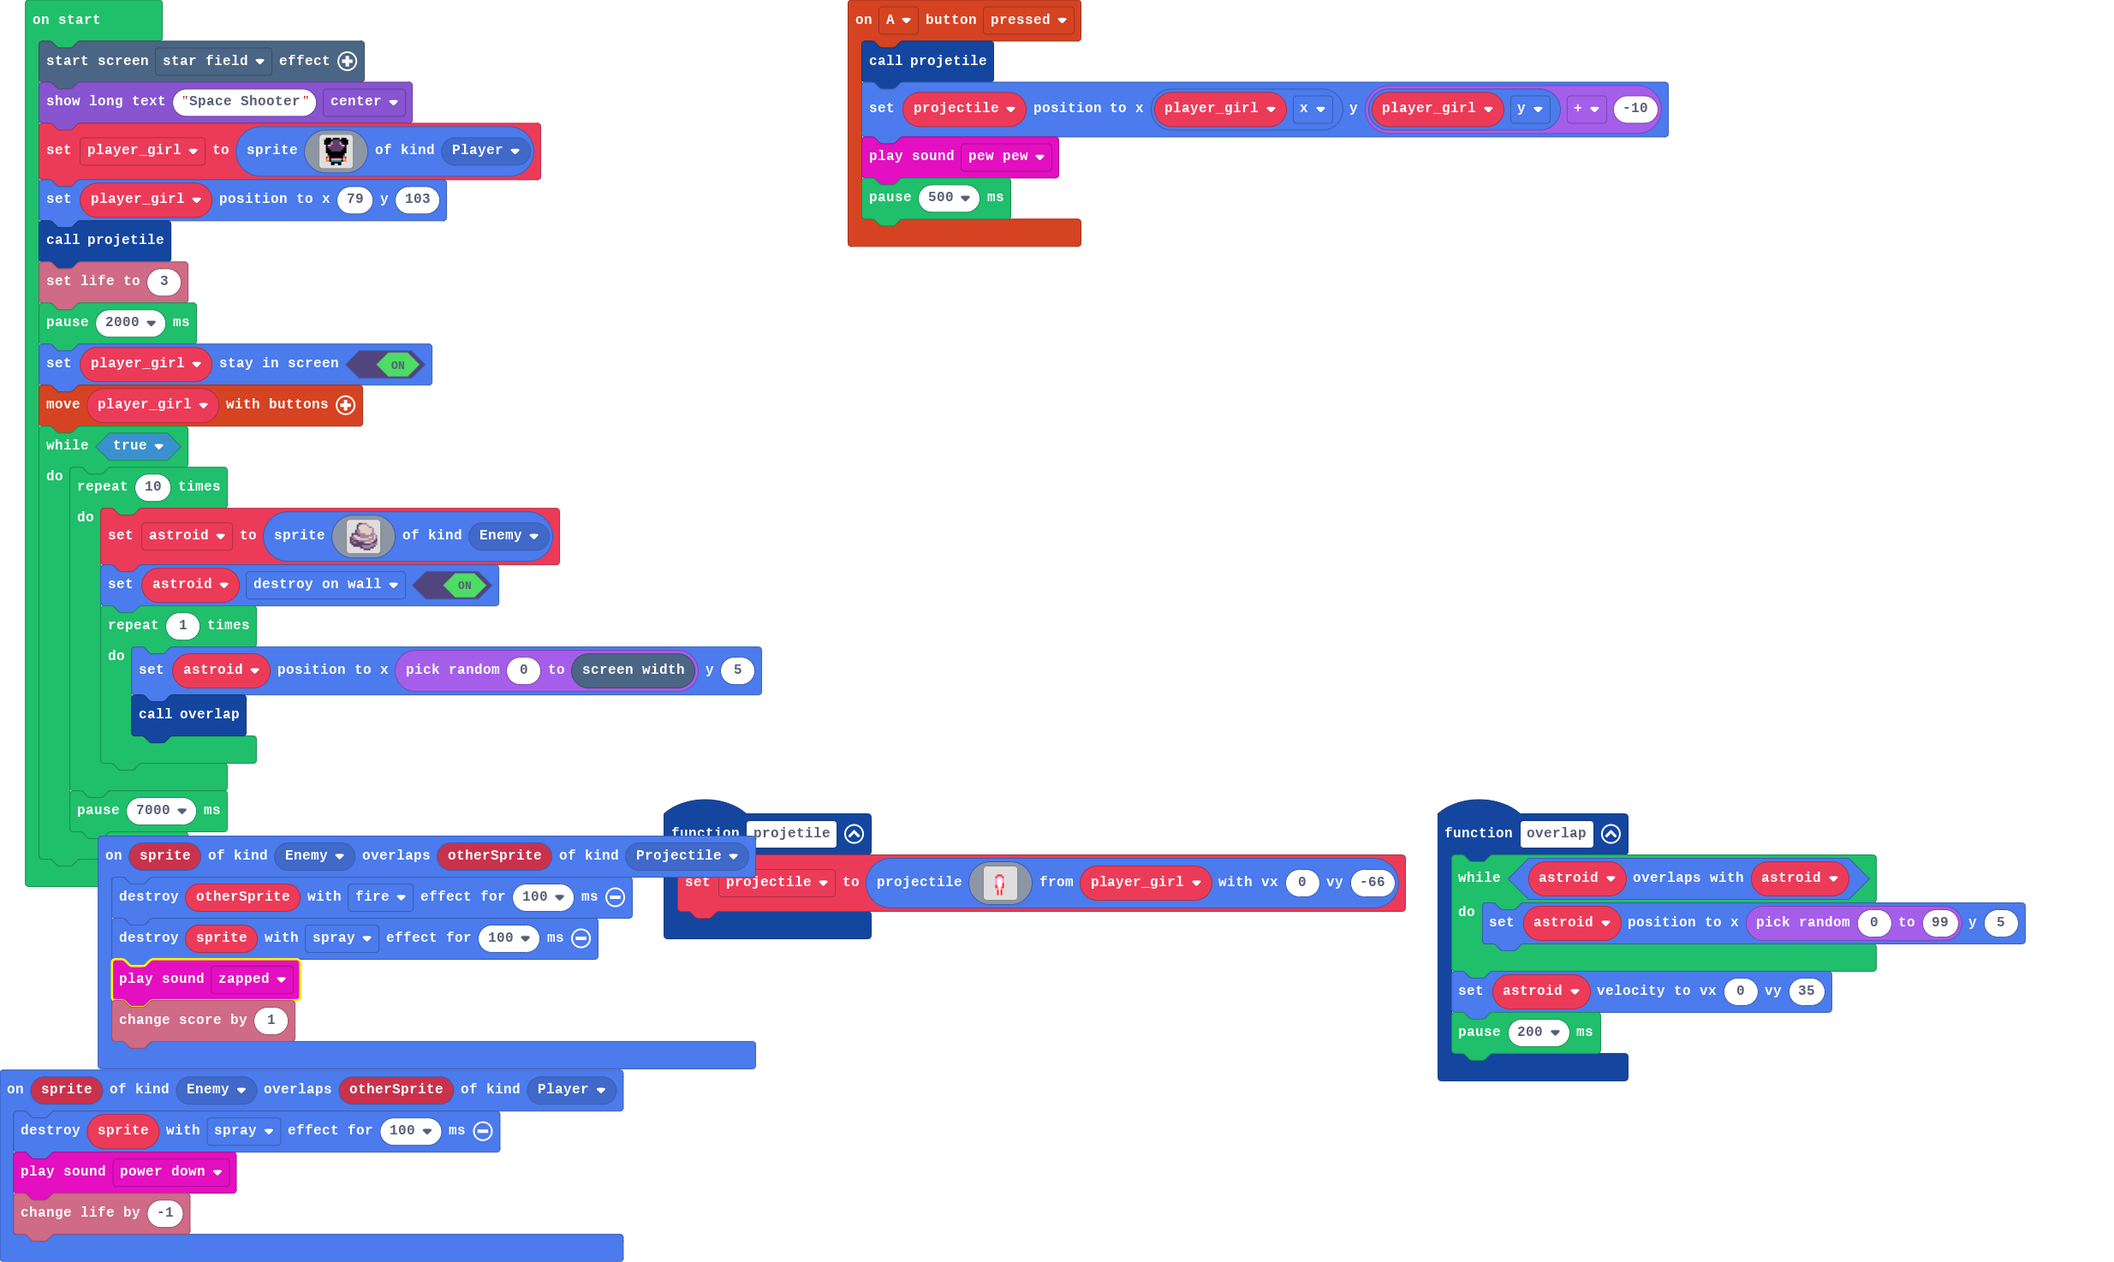
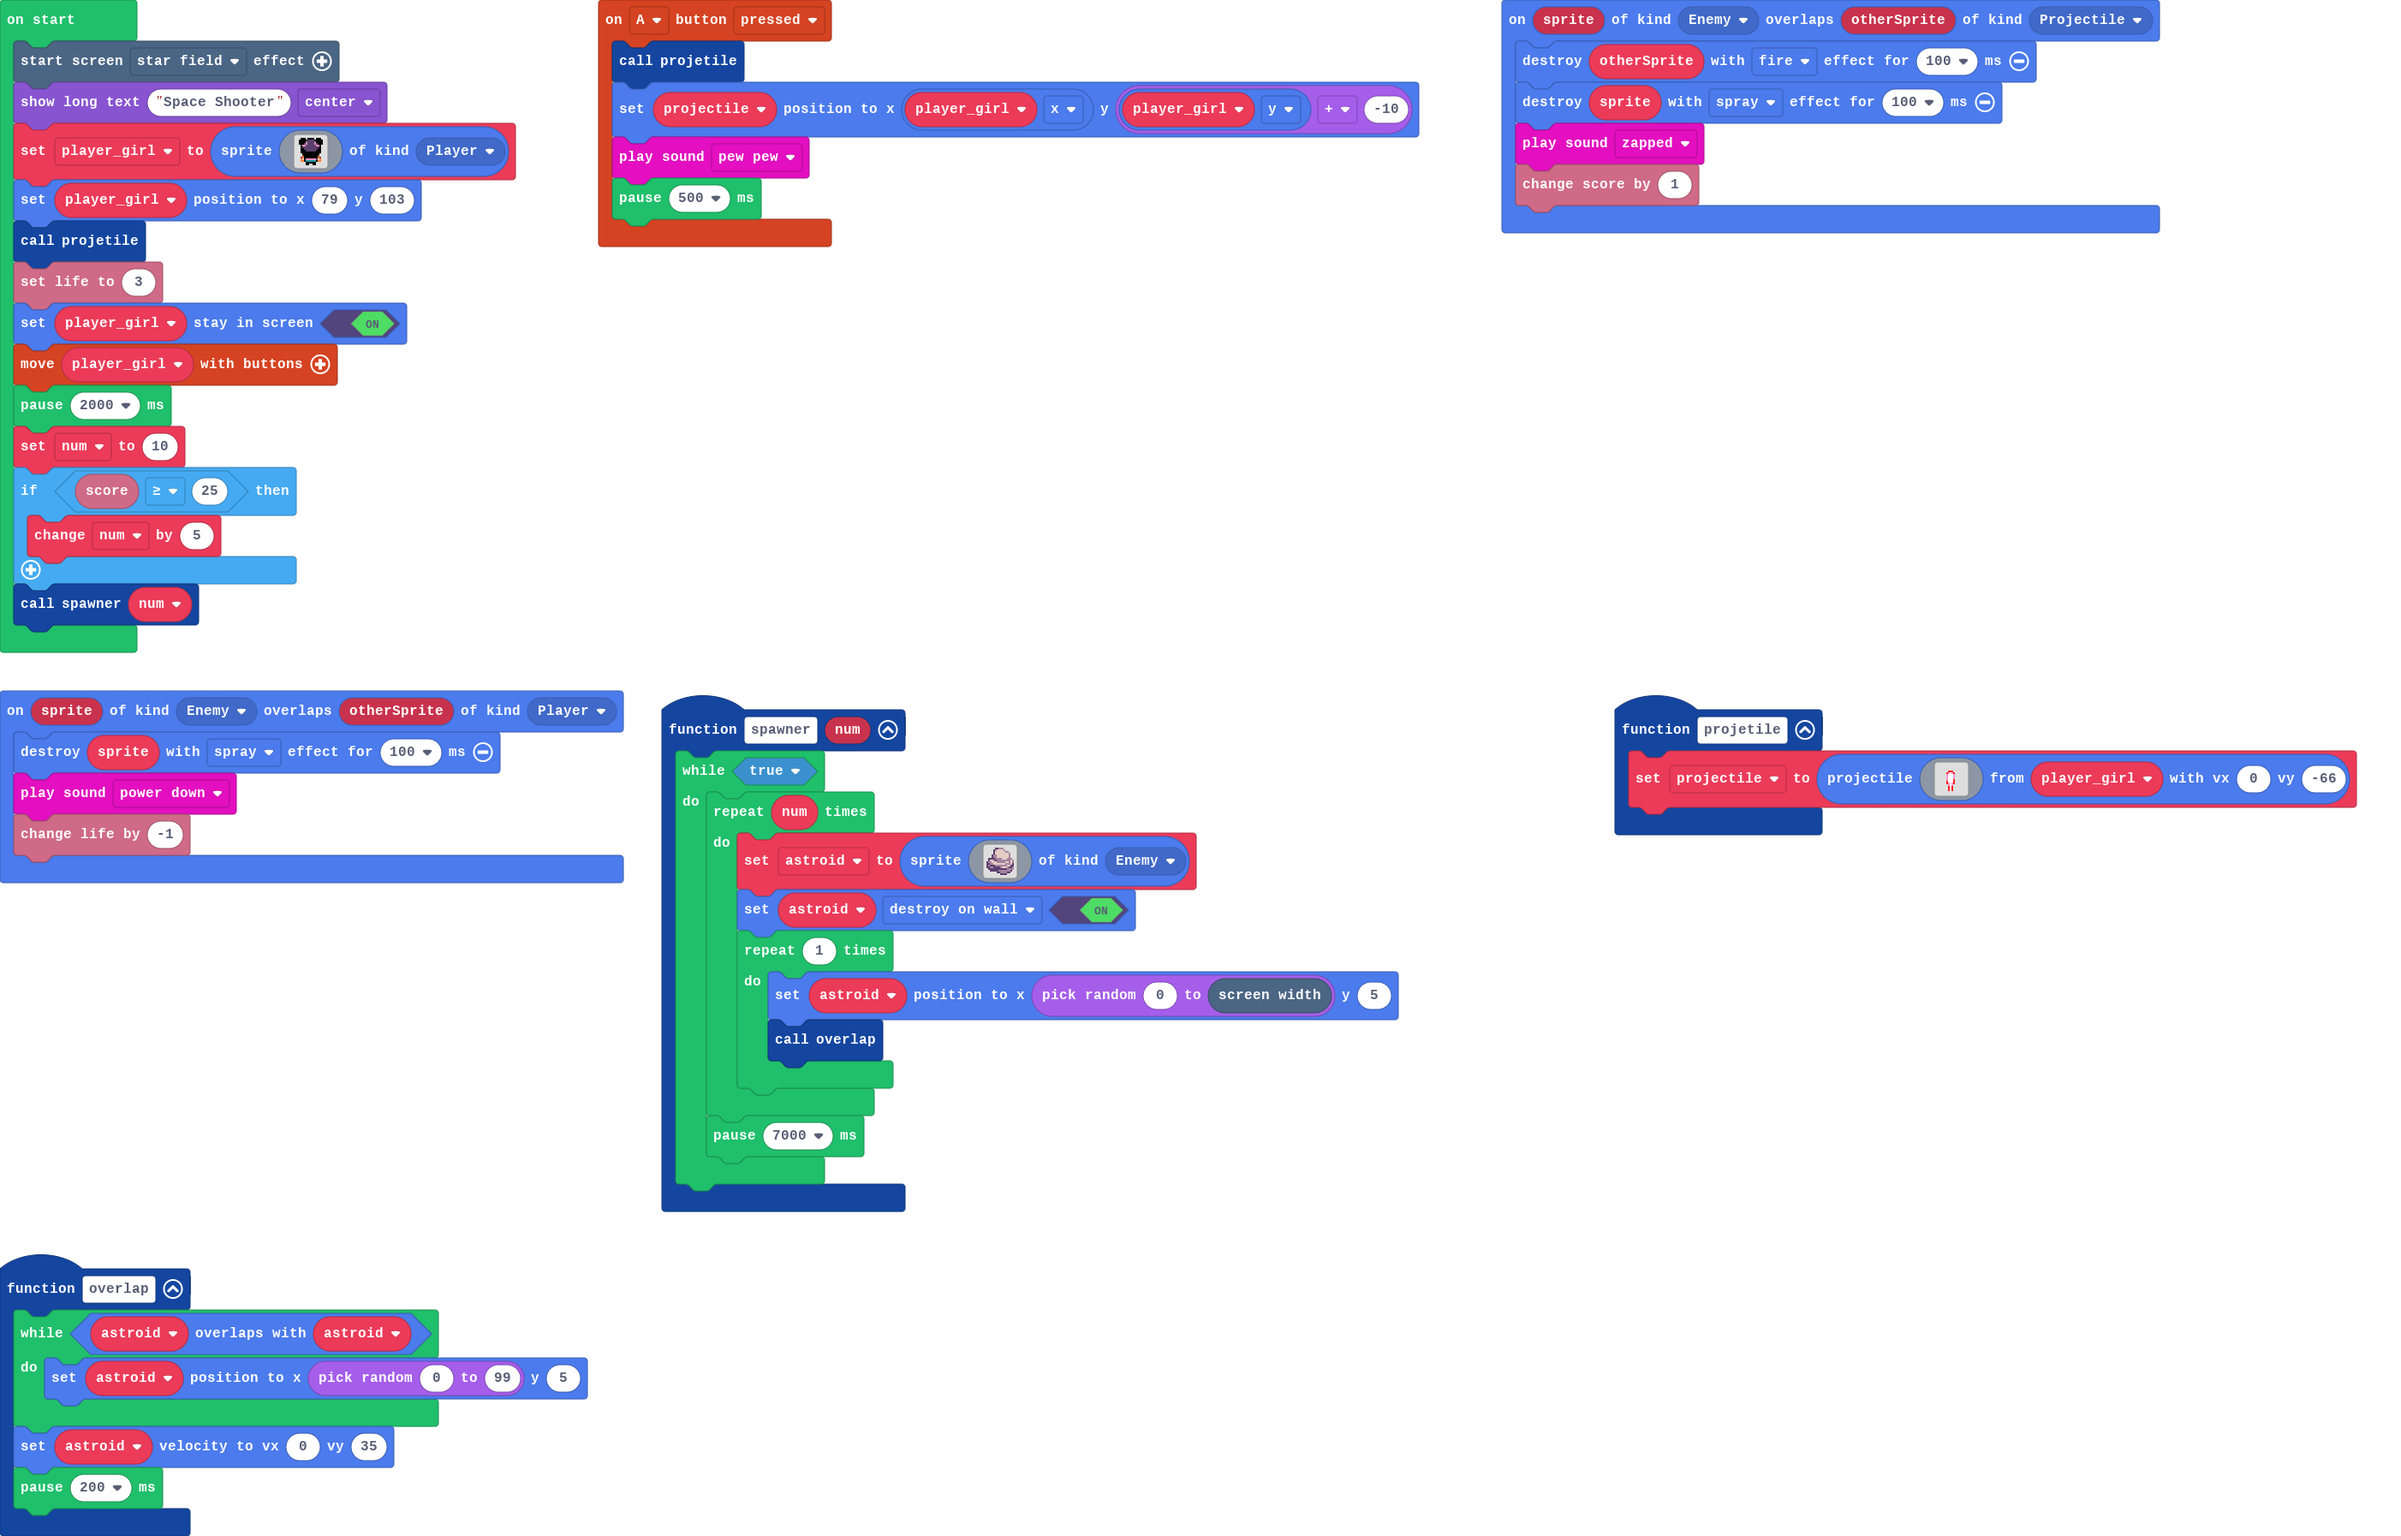
Update main.blocks, main.ts

diff --git a/main.ts b/main.ts
@@ -25,8 +25,21 @@ function overlap () {
     astroid.setVelocity(0, 35)
     pause(200)
 }
-let projectile: Sprite = null
+function spawner (num: number) {
+    while (true) {
+        for (let index = 0; index < num; index++) {
+            astroid = sprites.create(assets.image`asteroid`, SpriteKind.Enemy)
+            astroid.setFlag(SpriteFlag.DestroyOnWall, true)
+            for (let index = 0; index < 1; index++) {
+                astroid.setPosition(randint(0, scene.screenWidth()), 5)
+                overlap()
+            }
+        }
+        pause(7000)
+    }
+}
 let astroid: Sprite = null
+let projectile: Sprite = null
 let player_girl: Sprite = null
 effects.starField.startScreenEffect()
 game.showLongText("Space Shooter", DialogLayout.Center)
@@ -34,17 +47,11 @@ player_girl = sprites.create(assets.image`girl`, SpriteKind.Player)
 player_girl.setPosition(79, 103)
 projetile()
 info.setLife(3)
-pause(2000)
 player_girl.setStayInScreen(true)
 controller.moveSprite(player_girl)
-while (true) {
-    for (let index = 0; index < 10; index++) {
-        astroid = sprites.create(assets.image`asteroid`, SpriteKind.Enemy)
-        astroid.setFlag(SpriteFlag.DestroyOnWall, true)
-        for (let index = 0; index < 1; index++) {
-            astroid.setPosition(randint(0, scene.screenWidth()), 5)
-            overlap()
-        }
-    }
-    pause(7000)
+pause(2000)
+let num = 10
+if (info.score() >= 25) {
+    num += 5
 }
+spawner(num)
